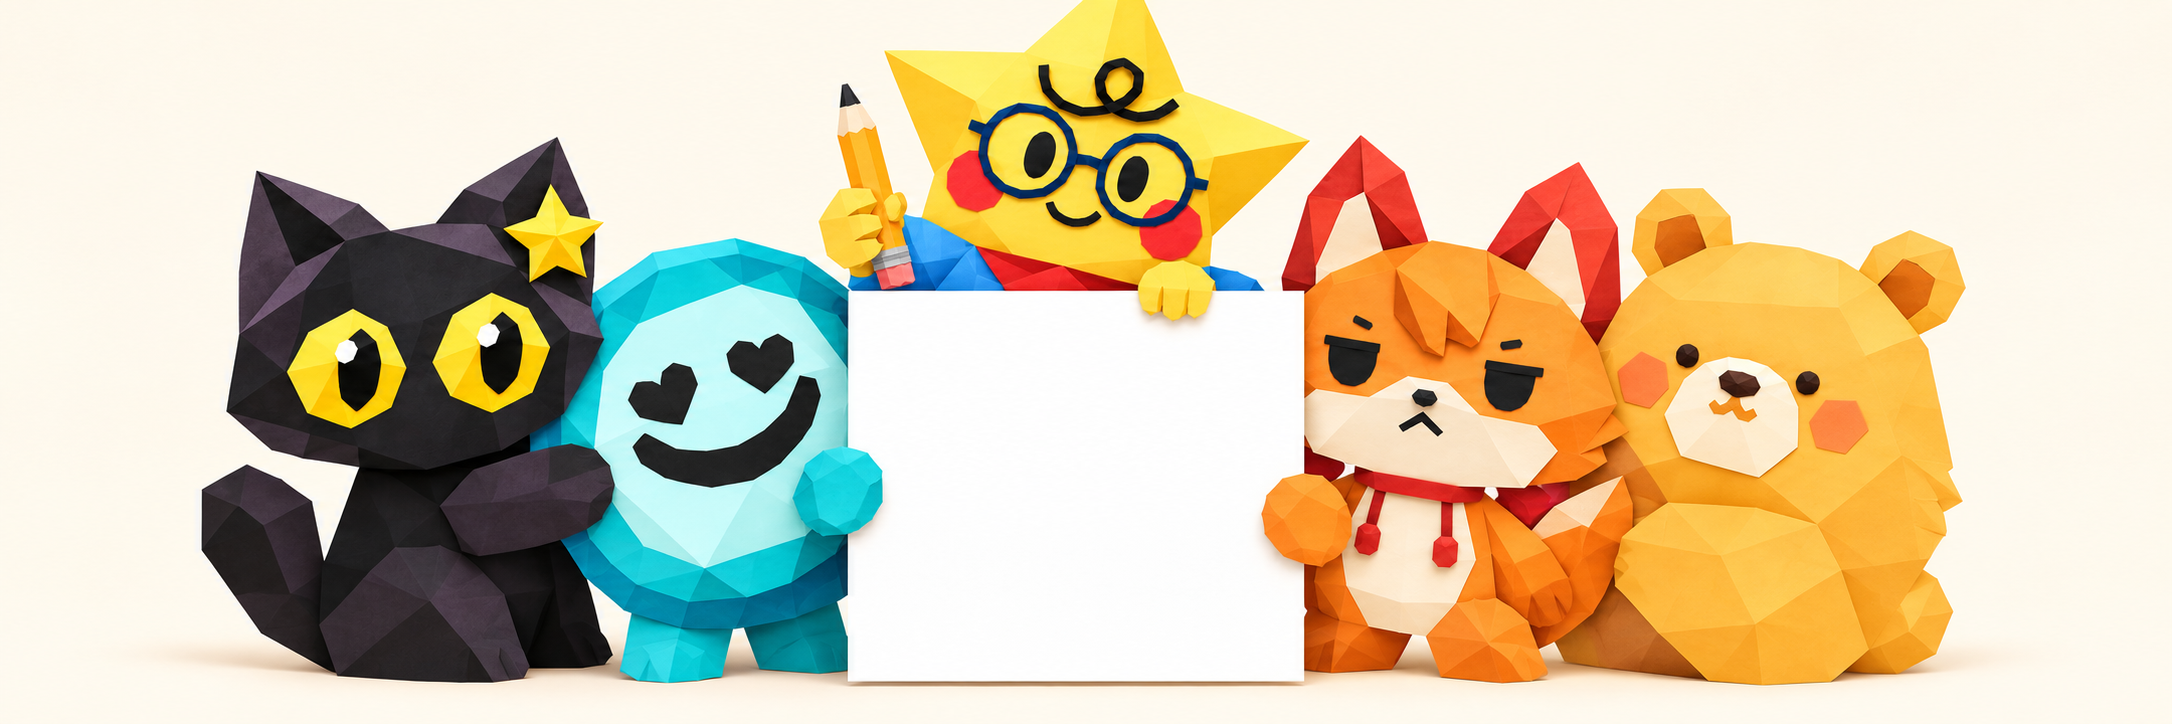
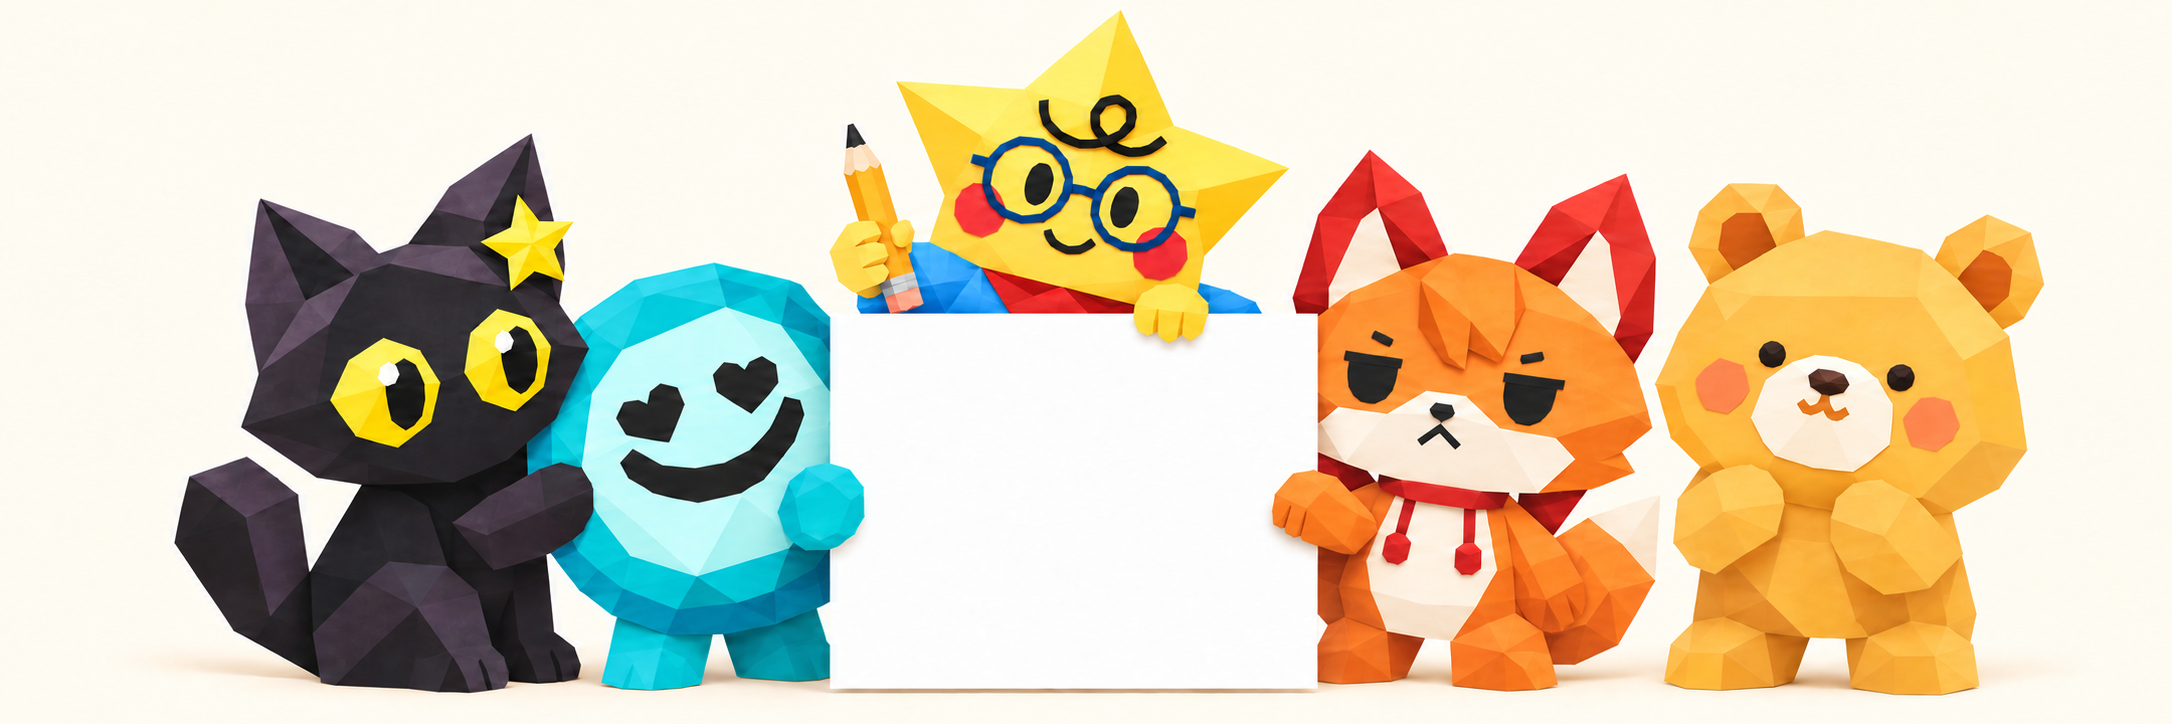
art: refine room crew to onboarding style

Changed region(s): [[0.0617, 0.0, 0.9563, 0.9724]]

diff --git a/docs/CURRENT_STATE_AUDIT.md b/docs/CURRENT_STATE_AUDIT.md
@@ -1364,3 +1364,15 @@ layout adaptável. Contraste branco sobre roxo preservado no hover selecionado.
 Arte criada pela ferramenta integrada de geração de imagens usando as cinco
 referências do usuário: papel facetado, fundo creme, placa central vazia, sem
 texto ou QR desenhado. Asset: `public/room-crew-header.png`.
+
+Revisão aprovada para integração: estilo aproximado às poses do onboarding,
+cabeça da Helena em nova pose, anatomia do urso simplificada, pata da raposa com
+dobras legíveis e ponta superior da estrela inteira. A placa e o QR continuam
+separados. Edição pela ferramenta integrada, sem alterações no fluxo da sala.
+
+Prompt da revisão: usar as poses 1 e 3 do onboarding como referências de papel
+recortado, facetas maiores e sombras discretas; preservar os cinco personagens,
+paleta, proporção 3:1 e placa branca central; corrigir anatomia do urso, mostrar
+a estrela inteira e mudar a cabeça da Helena. Refinamento final: alterar apenas
+a pata levantada da raposa para um antebraço curto conectado e pata de papel com
+duas pequenas divisões, mantendo todo o restante da composição.
